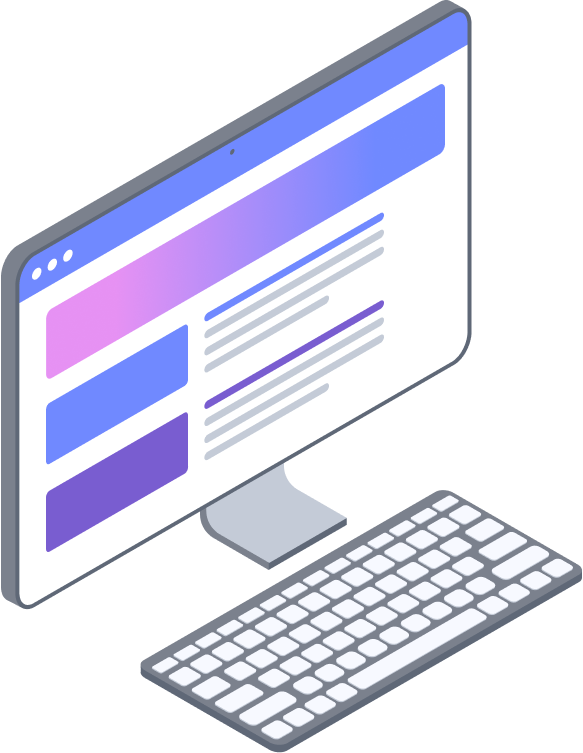
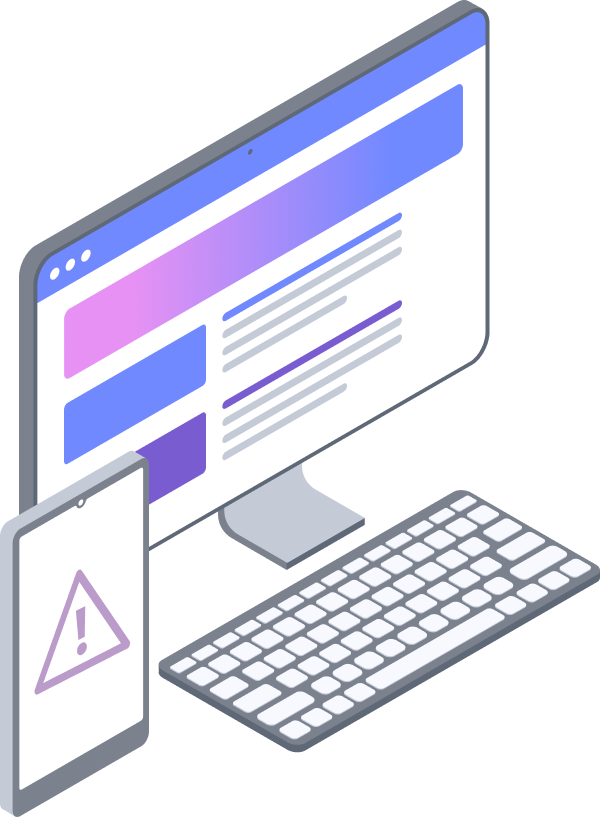
Fixing error build, forbidden alert image and date selected 2 days from now

diff --git a/src/pages/create-campaign/index.js b/src/pages/create-campaign/index.js
@@ -20,7 +20,8 @@ import SuccessAddCampaign from '../../components/success-add-campaign';
 import AddPaymentMethod from '../../components/add-payment-method';
 import { useStripe } from '@stripe/react-stripe-js';
 import { BACKEND_URL } from '../../helpers/constants';
-import { normalizeCurrency } from 'src/helpers/currency';
+import { normalizeCurrency } from '../../helpers/currency';
+import { getFutureDate } from '../../helpers/dateHelper';
 
 const questionObj = {
   collection_page_text: "Add a text for your collection page to describe what it is about.",
@@ -69,9 +70,8 @@ export default function AddCampaign({ content, params }) {
   const [pictureData, setPicture] = useState(initialPicture)
   const [formValues, setFormValues] = useState({
     campaign_name: '',
-    campaign_start_date: new Date(),
+    campaign_start_date: new Date(getFutureDate(2)),
     campaign_end_date_type: '',
-    campaign_end_date: new Date(),
     campaign_end_day: '7',
     ads_page_name: "",
     ads_page_description: "",
@@ -173,9 +173,8 @@ export default function AddCampaign({ content, params }) {
       setAudienceForm(audienceArr)
       setFormValues({
         campaign_name: content.name,
-        campaign_start_date: content.start_date ? new Date(content.start_date) : new Date(),
+        campaign_start_date: content.start_date ? new Date(content.start_date) : new Date(getFutureDate(2)),
         campaign_end_date_type: content.type.toString(),
-        campaign_end_date: new Date(),
         campaign_end_day: content.type === 3 ? content.availability : '7',
         ads_page_name: adsPage.name,
         ads_page_description: adsPage.description,
@@ -196,9 +195,8 @@ export default function AddCampaign({ content, params }) {
     setPicture(initialPicture)
     setFormValues({
       campaign_name: '',
-      campaign_start_date: new Date(),
+      campaign_start_date: new Date(getFutureDate(2)),
       campaign_end_date_type: '',
-      campaign_end_date: new Date(),
       campaign_end_day: '7',
       ads_page_name: "",
       ads_page_description: "",
@@ -265,6 +263,7 @@ export default function AddCampaign({ content, params }) {
     })
     return campaignData
   }
+  console.log("CHECK FUTURE DATE:", getFutureDate(2))
 
   const handleSubmit = async() => {
     try{
@@ -745,7 +744,7 @@ export default function AddCampaign({ content, params }) {
           </Typography>
           <div className={styles.ctnDate}>
             <div className={styles.containerDate}>
-              <DatePicker selected={formValues.campaign_start_date} onChange={(date) => setFormValues({...formValues,  campaign_start_date: date})} />
+              <DatePicker minDate={new Date(getFutureDate(2))} selected={formValues.campaign_start_date} onChange={(date) => setFormValues({...formValues,  campaign_start_date: date})} />
             </div>
             <img src={blackCalendar} alt="calendar" />
           </div>

diff --git a/src/helpers/dateHelper.js b/src/helpers/dateHelper.js
@@ -1,0 +1,57 @@
+import moment from 'moment';
+
+export const dateToUnix = date => moment(date).unix();
+export const getFutureDate = date => moment().add(date, 'days').format('YYYY-MM-DD');
+export const secondToMinutes = (duration) => {
+    const padSecond = number => (number < 10 ? '0' : '') + number;
+    if (duration) {
+      const minutes = duration / 60;
+      const second = duration % 60;
+      return `${minutes === 0 ? '00' : padSecond(Math.floor(minutes))}${second === 0 ? ':00' : `:${padSecond(Math.floor(second))}`}`;
+    }
+    return null;
+};
+
+export const parseTimerHoursFormat = (duration, hideNull) => {
+    const padSecond = number => (number < 10 ? '0' : '') + number;
+    if (duration) {
+      const hours = Math.floor(Number((duration / 3600)));
+      const minutes = (duration % 3600) / 60;
+      const second = duration % 60;
+      console.log('Check parse value:', minutes, second);
+      if (hideNull) {
+        return `${hours < 1 ? '' : hours}${minutes < 1 ? '00' : `${padSecond(Math.floor(minutes))}`}${second === 0 ? ':00' : `:${padSecond(Math.floor(second))}`}`;
+      }
+      return `${hours < 1 ? '00' : hours}${minutes < 1 ? ':00' : `:${padSecond(Math.floor(minutes))}`}${second === 0 ? ':00' : `:${padSecond(Math.floor(second))}`}`;
+    }
+    return null;
+};
+
+export const normalizeNumber = (total) => {
+  if (parseInt(total) < 10) {
+    return `0${total}`;
+  }
+  return total;
+};
+
+
+export const reformatDate = (valueDate) => {
+  if (valueDate) {
+    const formatYears = moment(valueDate).format('YYYY');
+    const formatMonth = moment(valueDate).format('MM');
+    const formatDay = moment(valueDate).format('DD');
+    const formatHours = moment(valueDate).format('HH');
+    const minutes = moment(valueDate).format('mm');
+    return new Date(formatYears, formatMonth - 1, formatDay, formatHours, minutes, 30, 0);
+  }
+  return new Date();
+};
+
+export const convertLocalTimeToUTC = (time) => {
+  return moment.utc(time).format('YYYY-MM-DD HH:mm');
+};
+
+export const convertUTCToLocalTime = (utcTime) => {
+  const offsetTime = moment().utcOffset();
+  return moment.utc(utcTime).utcOffset(offsetTime).format('YYYY-MM-DD HH:mm:ss');
+};

diff --git a/src/components/auth-footer/styles.js b/src/components/auth-footer/styles.js
@@ -23,11 +23,18 @@ export default makeStyles((theme) => ({
             fontWeight: 'bold',
             fontSize: 15,
             [theme.breakpoints.down('sm')]:{
-                marginLeft: 30
+                marginLeft: 0,
+                marginRight: 0
             }
         },
         [theme.breakpoints.down('sm')]:{
-            marginBottom: 8
+            marginBottom: 8,
+            display: 'flex',
+            flexDirection: 'column',
+            '& > a':{
+                textAlign: 'center',
+                marginTop: 8
+            }
         }
     }
 }))

diff --git a/src/components/card-audience/index.js b/src/components/card-audience/index.js
@@ -6,7 +6,7 @@ import _ from 'lodash'
 import { calculateAirdropPerUser, getAudiencePrice } from '../../helpers/calculator';
 import SvgIconStyle from '../SvgIconStyle';
 import CurrencyInput from "react-currency-input-field";
-import { normalizeCurrency } from 'src/helpers/currency';
+import { normalizeCurrency } from '../../helpers/currency';
 
 const triangleIcon = '/assets/triangle.png'
 const pricetagIcon = '/assets/pricetag_icon.png'

diff --git a/src/pages/forbidden/styles.js b/src/pages/forbidden/styles.js
@@ -9,8 +9,8 @@ export default makeStyles((theme) => ({
         flexDirection: 'column',
         maxWidth: 260,
         '& > img':{
-            width: 120,
-            height: 120,
+            width: 240,
+            height: 140,
             objectFit: 'contain',
             marginBottom: 20
         }
